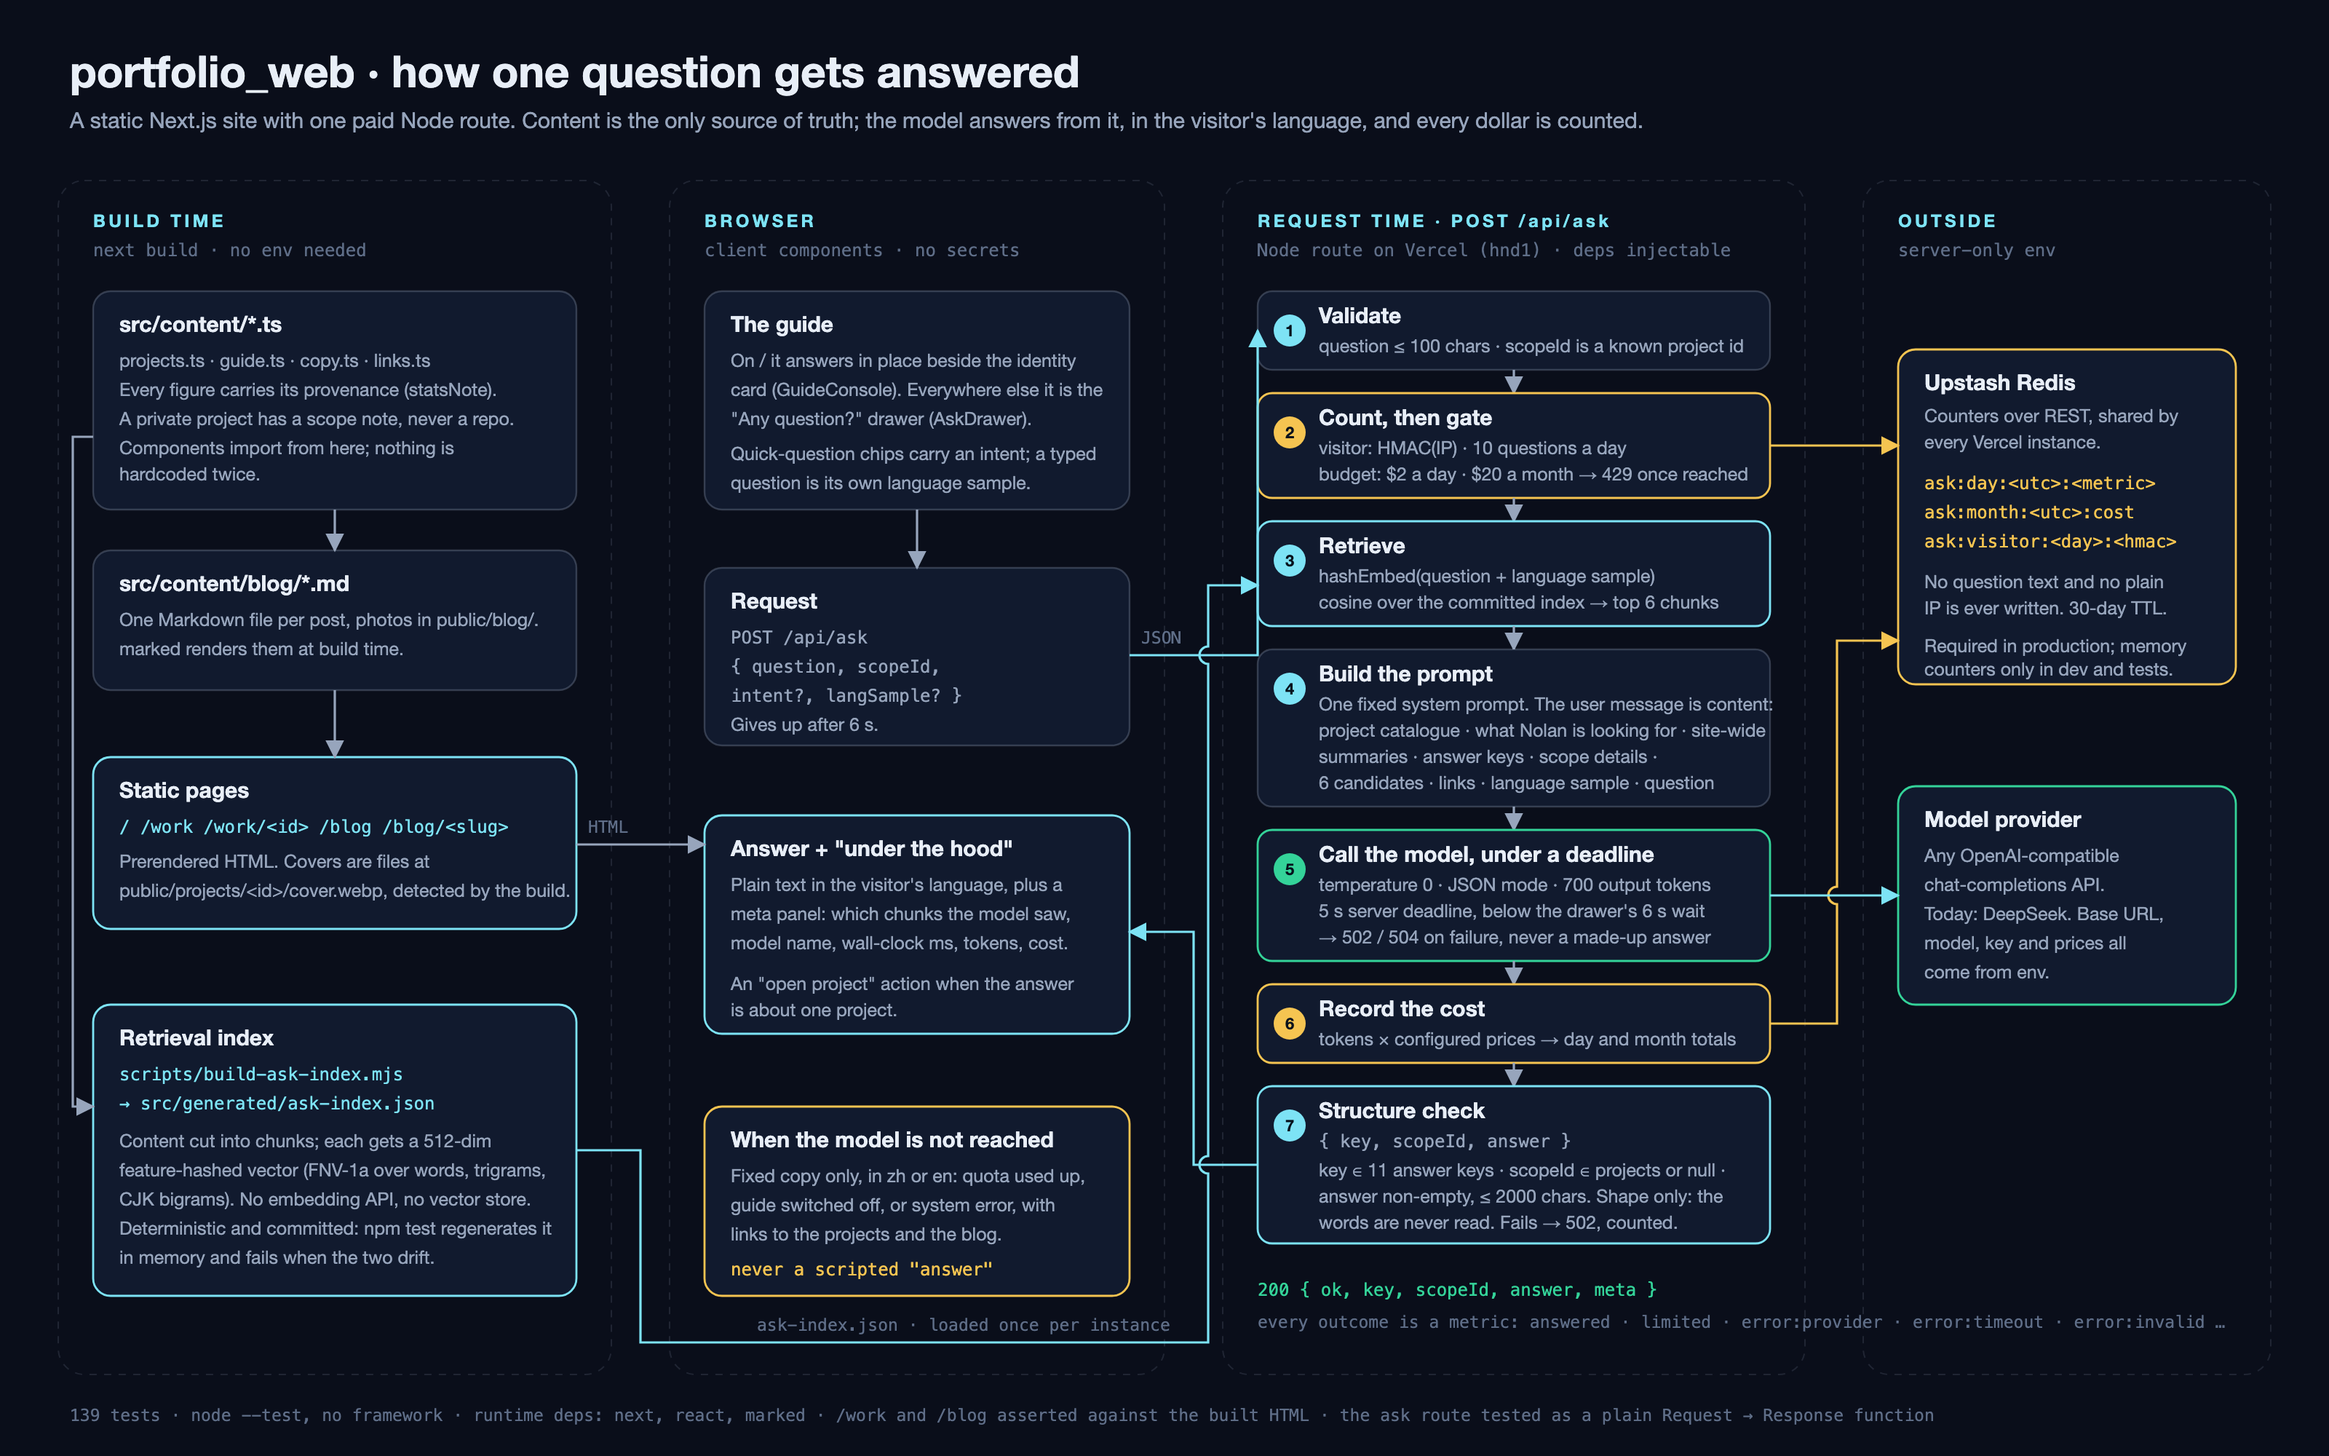
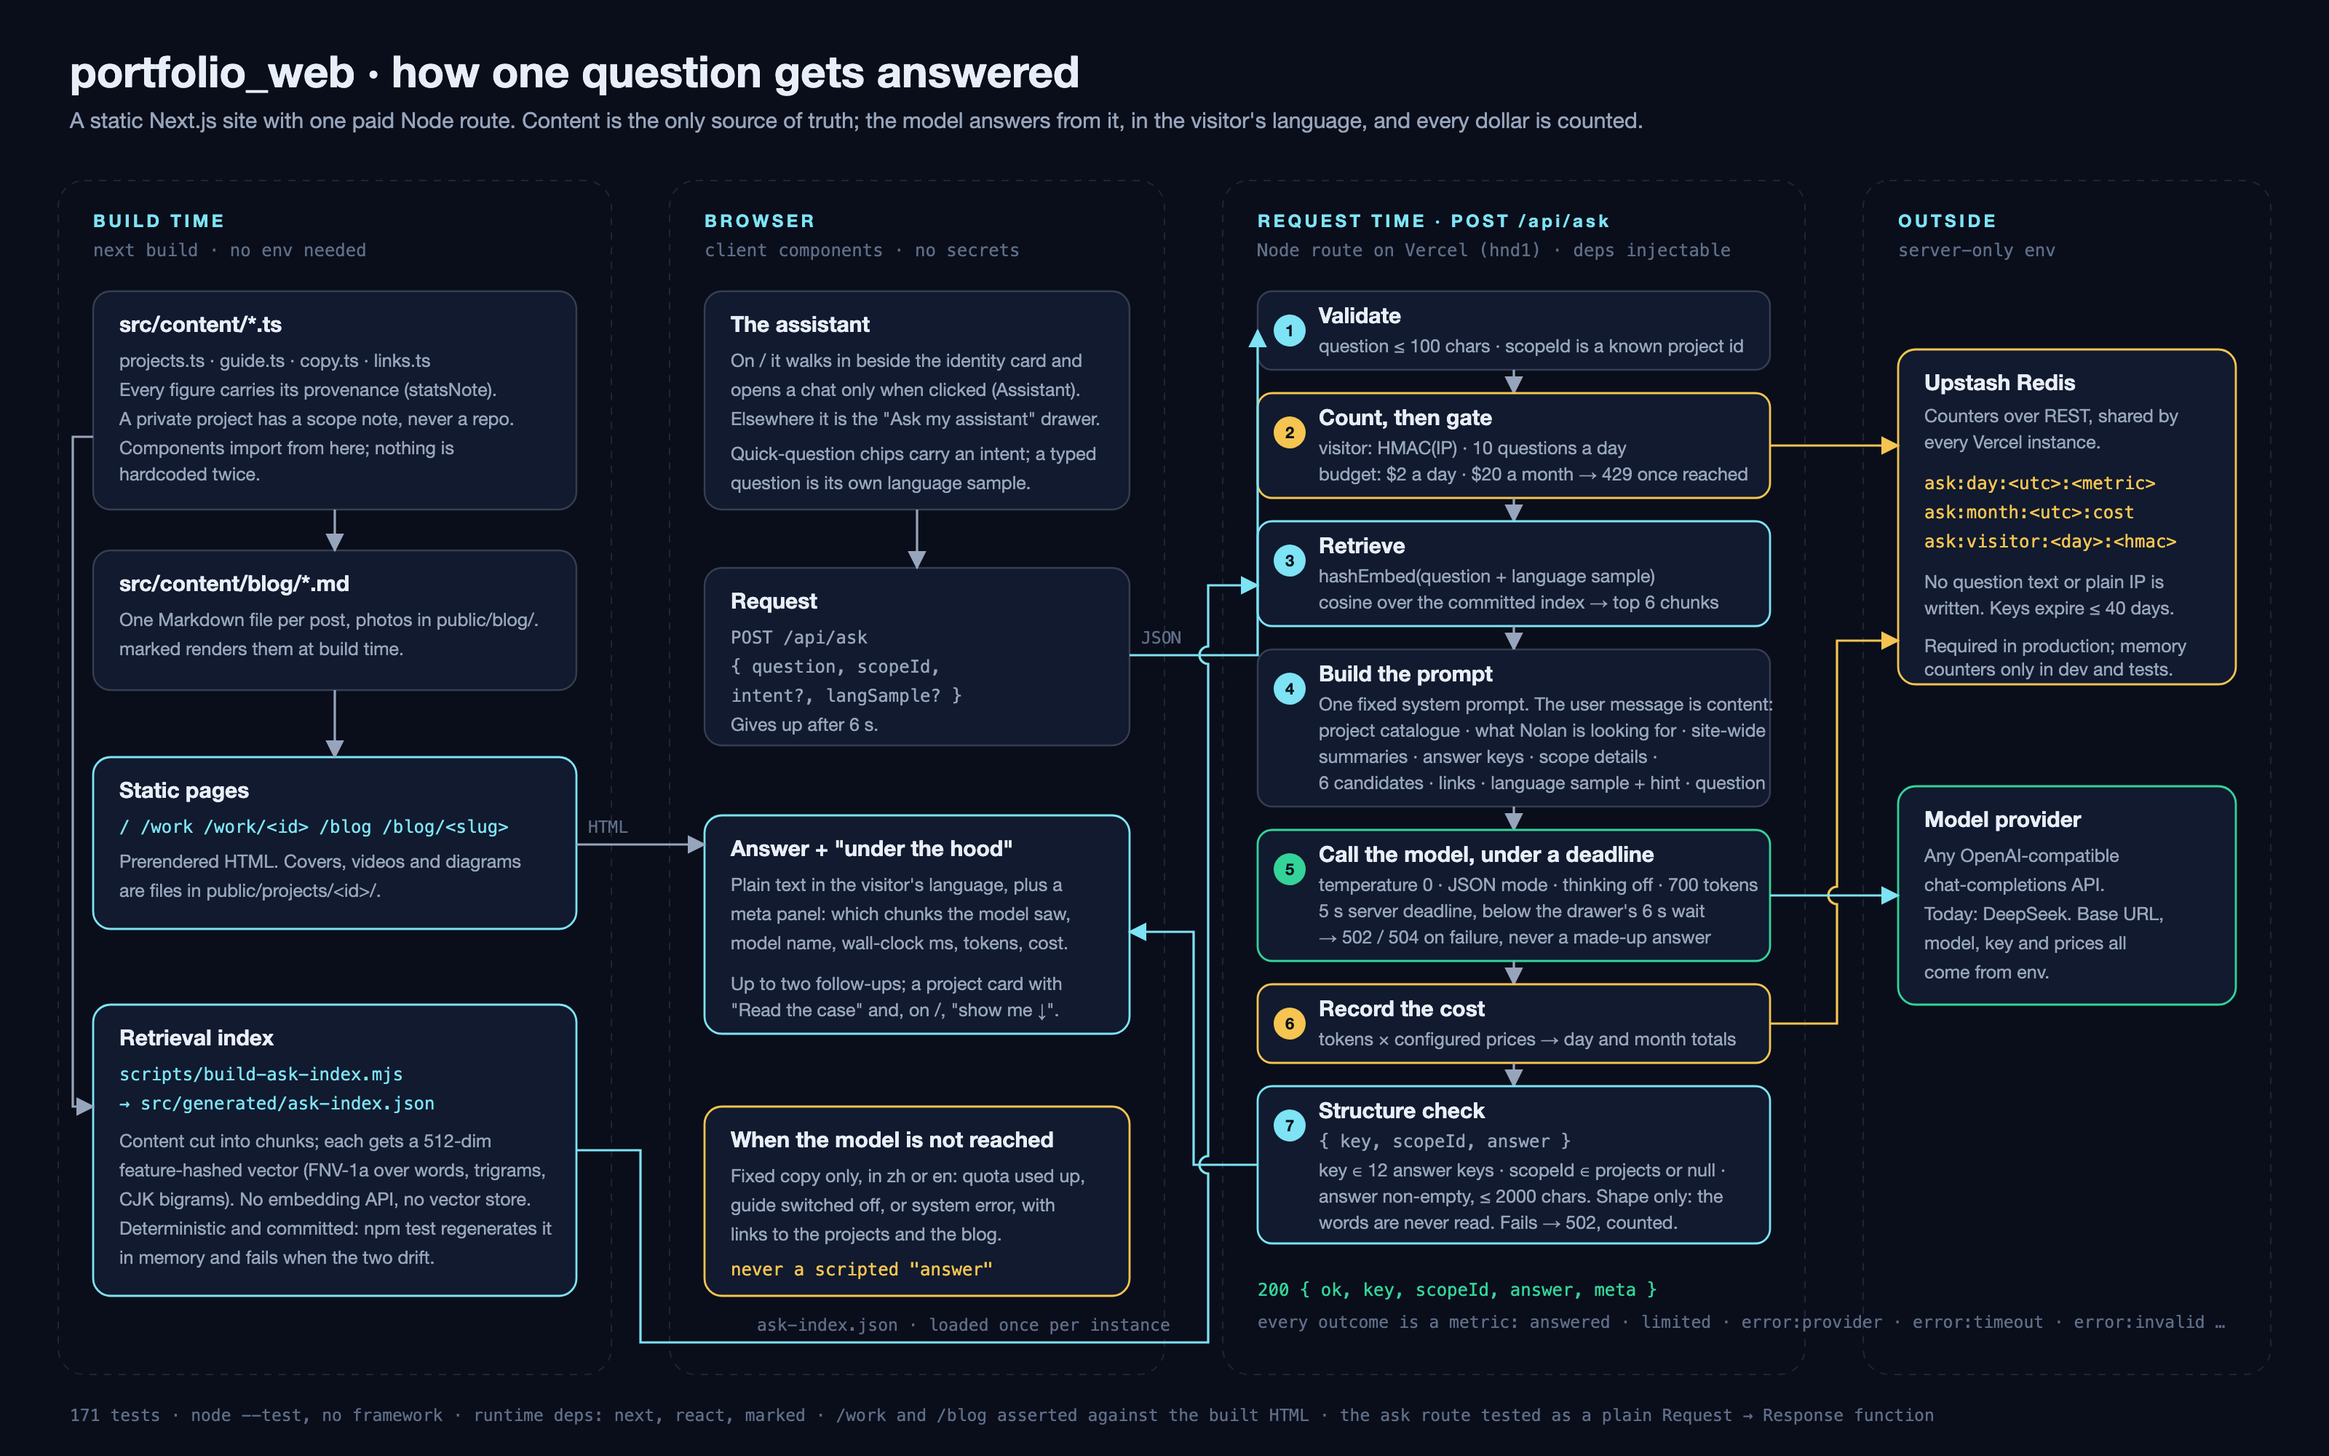
docs(readme): catch the README and its diagram up with the code
- README: follow-ups and the project card in answers, the whole-card
  link and case-page media, twelve answer keys with `work` and
  `fallback`, the language hint, thinking off, the lossless output
  repairs, every metric, and ASK_PROVIDER / ASK_MAX_QUESTION_CHARS
- architecture diagram: the walk-in assistant replaces GuideConsole and
  the "Any question?" drawer, 12 keys, 171 tests, keys expire within
  40 days
- the guide's README excerpt in projects.ts follows the new README;
  the ask index is rebuilt

diff --git a/src/content/projects.ts b/src/content/projects.ts
@@ -116,7 +116,7 @@ export const PROJECTS: Project[] = [
         "url": "https://github.com/jupiter-Pulin/portfolio_web"
       }
     ],
-    "readme": "# portfolio_web\n\nNolan Tang's portfolio site, live at nolan-tang.vercel.app. A static Next.js 16 site (App Router, TypeScript, no Tailwind) with one paid Node route: a site guide that answers visitors' questions about the work, in the visitor's language, from the site's own content — and stops the moment its budget is spent.\n\n## What this is\n\n1. **A site guide backed by a paid model** — `POST /api/ask`. On the home page it answers in place beside the identity card; on every other page it is the \"Any question?\" drawer. The model reads the site's content, answers in whatever language the visitor typed, says plainly when the site does not cover something, and never acts on Nolan's behalf.\n2. **The work pages** — `/work` and one case page per project, prerendered from a single data file. Every figure shown carries a provenance note; a private project shows a scope note and never a repository link.\n3. **A blog** — one Markdown file per post, rendered at build time. Publishing is adding a file.\n\n## The guide, end to end\n\n**Build time.** `scripts/build-ask-index.mjs` cuts `src/content` into chunks and gives each a 512-dimension feature-hashed vector. There is no embedding API and no vector store. The vectors are a pure function of the text, so the index is deterministic and committed; `npm test` regenerates it in memory and fails when the two drift.\n\n**Request time**, one Node function with every dependency injectable: validate → count, then gate (10 questions a visitor a day; $2 a day, $20 a month) → retrieve the six nearest chunks → build the prompt from content → call the model under a 5-second deadline → record the cost → check the shape of the reply. A failure is a 502 or 504 — never a made-up answer, never a scripted fallback.",
+    "readme": "# portfolio_web\n\nNolan Tang's portfolio site, live at nolan-tang.vercel.app. A static Next.js 16 site (App Router, TypeScript, no Tailwind) with one paid Node route: Nolan's assistant, which answers visitors' questions about the work, in the visitor's language, from the site's own content — and stops the moment its budget is spent. The whole site is drawn in the hand-drawn style of Nolan's explainer videos, on light or night paper.\n\n## What this is\n\n1. **An assistant backed by a paid model** — `POST /api/ask`. On the home page it walks in, waves and waits beside the identity card, and opens a chat only when clicked; on every other page it is the \"Ask my assistant\" drawer. The model reads the site's content, answers in whatever language the visitor typed, says plainly when the site does not cover something, and never acts on Nolan's behalf. An answer offers at most two follow-up questions; one about a single project also shows that project's card.\n2. **The work pages** — `/work` and one case page per project, prerendered from a single data file. A project card opens its case page wherever it is clicked. A case page can also carry the live product's link, a walkthrough video, an architecture diagram and a hand-drawn explainer video in place of the README preview. Every figure shown carries a provenance note; a private project shows a scope note and never a repository link.\n3. **A blog** — one Markdown file per post, rendered at build time. Publishing is adding a file.\n\n## The guide, end to end\n\n**Build time.** `scripts/build-ask-index.mjs` cuts `src/content` into chunks and gives each a 512-dimension feature-hashed vector. There is no embedding API and no vector store. The vectors are a pure function of the text, so the index is deterministic and committed; `npm test` regenerates it in memory and fails when the two drift.\n\n**Request time**, one Node function with every dependency injectable: validate → count, then gate (10 questions a visitor a day; $2 a day, $20 a month) → retrieve the six nearest chunks → build the prompt from content, with a language hint when the script settles it → call the model under a 5-second deadline → record the cost → check the shape of the reply. A failure is a 502 or 504 — never a made-up answer, never a scripted fallback.",
     "qa": {
       "decision": "Retrieval without an embedding API. Each content chunk gets a 512-dimension feature-hashed vector — FNV-1a over words and trigrams, characters and bigrams for CJK — so the index is a pure function of the text: deterministic, committed to git, and regenerated by the test suite, which fails when the two drift. It is cruder than a learned embedding, and that is the point: the site-wide answers are sent with every prompt anyway, the model routes and writes the answer in one call, and there is one less service that can be down, billed or out of sync with the content.",
       "stack": "Next.js 16 App Router with TypeScript; every page prerendered at build time from <code>src/content</code>, blog posts from Markdown via <code>marked</code>. One Node route, <code>/api/ask</code>, written as a plain Request → Response function with every dependency injectable: an OpenAI-compatible provider (DeepSeek today, temperature 0, JSON mode), Upstash Redis for the shared counters, and <code>node --test</code> with no framework.",

diff --git a/README.md b/README.md
@@ -19,9 +19,15 @@ Three things live in this repository, in order of how much of the code they take
    other page it is the "Ask my assistant" drawer.
    The model reads the site's content, answers in whatever language the visitor typed,
    says plainly when the site does not cover something, and never acts on Nolan's behalf.
+   An answer offers at most two follow-up questions; one about a single project also shows
+   that project's card, with "Read the case" and, on the home page, "show me ↓", which
+   scrolls to the project's card and circles it.
 2. **The work pages** — `/work` and one case page per project, prerendered from a single
-   data file. Every figure shown carries a provenance note; a private project shows a
-   scope note and never a repository link.
+   data file. A project card opens its case page wherever it is clicked. A case page can
+   also carry the live product's link, a walkthrough video, an architecture diagram and a
+   hand-drawn explainer video that takes the README preview's place; each is a file named
+   on the project record. Every figure shown carries a provenance note; a private project
+   shows a scope note and never a repository link.
 3. **A blog** — one Markdown file per post, rendered at build time. Publishing is adding a file.
 
 The hand-drawn look is code, not images: `src/lib/sketch.ts` is the pen (seeded wobble,
@@ -48,8 +54,8 @@ memory and fails when the two drift.
 **Request time**, one Node function with every dependency injectable
 (`src/server/ask/handler.ts`), in this order:
 
-1. **Validate.** The question is at most 100 characters and the scope, if any, is a known
-   project id. Anything else is a 400.
+1. **Validate.** The question is at most 100 characters (`ASK_MAX_QUESTION_CHARS`) and the
+   scope, if any, is a known project id. Anything else is a 400.
 2. **Count, then gate.** Every request bumps a daily counter. The visitor is identified by an
    HMAC of their IP and allowed 10 questions a day; today's and this month's spend are
    checked against their thresholds. Over either limit is a 429 that names the reason.
@@ -58,16 +64,21 @@ memory and fails when the two drift.
 4. **Build the prompt.** One fixed system prompt. The user message is content: the project
    catalogue, what Nolan is looking for, the site-wide summaries, the answer keys and what
    each means, the current scope's details, the six candidates, the public links, a
-   target-language sample, and the question.
+   target-language sample, a language hint when the sample's script settles it, and the
+   question.
 5. **Call the model under a deadline.** Any OpenAI-compatible chat-completions API
-   (DeepSeek today), temperature 0, JSON mode, 700 output tokens, a 5-second server
-   deadline kept below the drawer's 6-second wait. A failure is a 502 or 504 — never a
+   (DeepSeek today), temperature 0, JSON mode, thinking off (DeepSeek's reasoning would
+   otherwise spend the output budget before the JSON is written), 700 output tokens, a
+   5-second server deadline kept below the drawer's 6-second wait. A failure is a 502 or 504 — never a
    made-up answer, never a scripted fallback.
 6. **Record the cost.** Tokens times the configured prices, added to the day and month totals.
 7. **Structure check.** The reply must be `{ key, scopeId, answer }` with a key from the
-   eleven answer keys, a scope that is a project id or null, and a non-empty answer under
-   2000 characters. Only the shape is checked; the words are never read. A reply that fails
-   is a 502 and a counted error.
+   twelve answer keys, a scope that is a project id or null, and a non-empty answer under
+   2000 characters. Before the check, only lossless repairs are made
+   (`src/server/ask/output.ts`): an object wrapped in a code fence or prose is unwrapped, a
+   stray comma before the closing brace is dropped, and a scope written as a project's name
+   becomes its id. Beyond that only the shape is checked; the words are never read. A reply
+   that fails is a 502 and a counted error.
 
 A 200 carries the answer plus a `meta` block — which chunks the model saw, model name,
 wall-clock time, tokens and cost — that the page shows as "under the hood".
@@ -75,12 +86,16 @@ wall-clock time, tokens and cost — that the page shows as "under the hood".
 **Language.** A typed question is its own language sample. When the visitor clicks a
 quick-question chip after typing in Chinese, the chip carries their last typed question
 as the sample, so the answer stays in Chinese. The prompt tells the model that a mixed
-sample takes the language of its sentence structure.
+sample takes the language of its sentence structure. When the script alone settles it —
+kana means Japanese; no Chinese, Japanese or Korean characters means never Chinese — the
+prompt adds a "Language hint" the model must follow (`languageHint` in
+`src/server/ask/prompt.ts`).
 
 **Routing.** The model also routes: the same question in any language, or in other words,
-gets the same answer key and scope. Site-wide keys (`payments`, `agents`, `looking`,
-`contact`, `all`) always have a null scope; project keys (`overview`, `decision`, `stack`,
-`status`, `code`) take the project the question names, or keep the current one. A paid
+gets the same answer key and scope. Site-wide keys (`payments`, `agents`, `work`,
+`looking`, `contact`, `all`) always have a null scope; project keys (`overview`,
+`decision`, `stack`, `status`, `code`) take the project the question names, or keep the
+current one. `fallback` is only for a question nothing on the site relates to. A paid
 evaluation (`scripts/eval-ask.mjs`) checks that stability across English, Chinese, mixed and
 other-language paraphrases, including chips clicked after a Chinese question.
 
@@ -106,9 +121,10 @@ and an `ASK_IP_SALT` (Upstash may incur additional charges). Outside production 
 fall back to memory — the model is still called for real and still billed. Vercel's WAF adds
 its own rate limit in front of the route.
 
-Every outcome is a metric — `answered`, `limited:visitor`, `limited:budget`,
-`error:provider`, `error:timeout`, `error:invalid`, `error:config`, `error:store` — so a
-quiet guide can be told apart from a broken one by reading the counters.
+Every request and every outcome is a metric — `requests`, `answered`, `limited:visitor`,
+`limited:budget`, `unavailable`, `error:provider`, `error:timeout`, `error:invalid`,
+`error:config`, `error:store`, plus the `cost` totals — so a quiet guide can be told apart
+from a broken one by reading the counters.
 
 ## Content is the only source of truth
 
@@ -117,6 +133,10 @@ quiet guide can be told apart from a broken one by reading the counters.
 - Every figure on the site comes from `projects.ts` and keeps its provenance label
   (`statsNote`). A private project (`private: true`) shows its scope note, never a repository.
 - A project cover is a file: drop `public/projects/<id>/cover.webp` and the build picks it up.
+  The live site, the walkthrough (`demo`), the hand-drawn `explainer` video and the
+  `architecture` diagram are optional fields on the record, with their files in the same
+  folder. The explainer videos are drawn and voiced outside this repository and dropped in
+  as `.mp4` files.
 - `src/content/blog/` — one Markdown file per post, photos in `public/blog/<slug>/`.
   `marked` renders them at build time; it is the one runtime dependency beyond Next and React.
 
@@ -140,10 +160,12 @@ variables the route answers 503 and the rest of the site is unaffected.
 
 | Variable | Purpose |
 | --- | --- |
+| `ASK_PROVIDER` | `openai-compatible` (the default and, today, the only provider) |
 | `ASK_MODEL_BASE_URL`, `ASK_MODEL`, `ASK_MODEL_API_KEY` | The OpenAI-compatible endpoint and key |
 | `ASK_PRICE_INPUT_USD_PER_MTOK`, `ASK_PRICE_OUTPUT_USD_PER_MTOK` | Prices used to record cost; no defaults |
 | `UPSTASH_REDIS_REST_URL`, `UPSTASH_REDIS_REST_TOKEN`, `ASK_IP_SALT` | Counters and the visitor hash; required in production |
 | `ASK_DAILY_BUDGET_USD`, `ASK_MONTHLY_BUDGET_USD`, `ASK_VISITOR_DAILY_LIMIT` | The limits above |
+| `ASK_MAX_QUESTION_CHARS` | Longest question accepted; 100 by default |
 | `ASK_SERVER_DEADLINE_MS` | Must stay below the drawer's 6000 ms wait |
 | `ASK_ENABLED` | `false` switches the guide off; anything else leaves it on |
 
